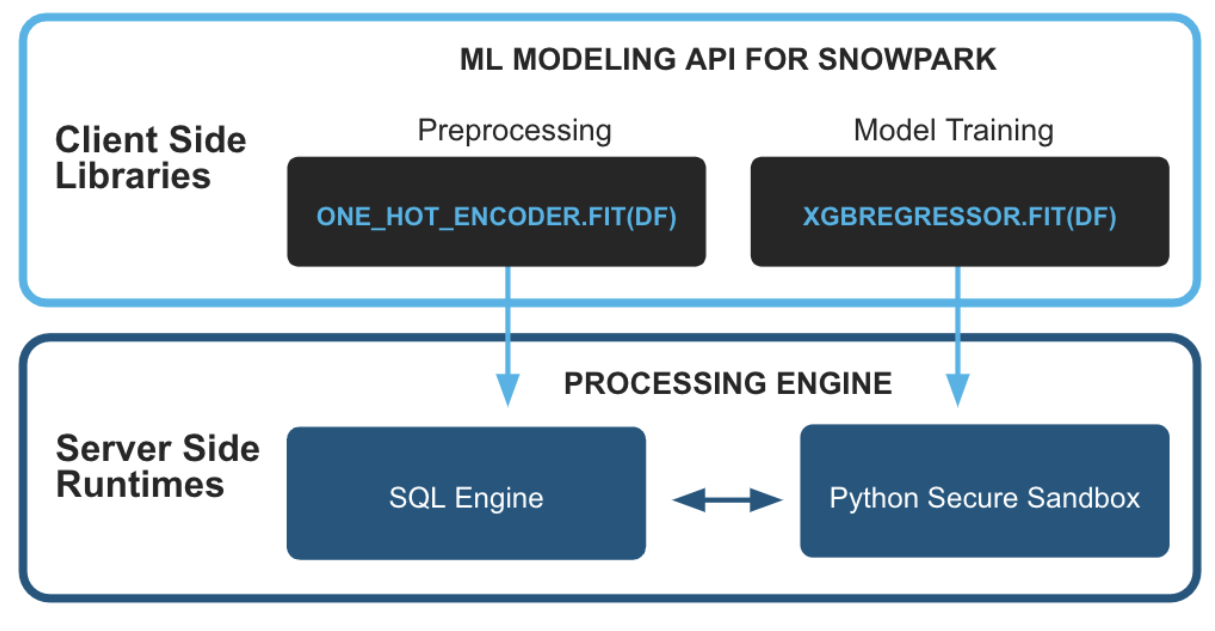
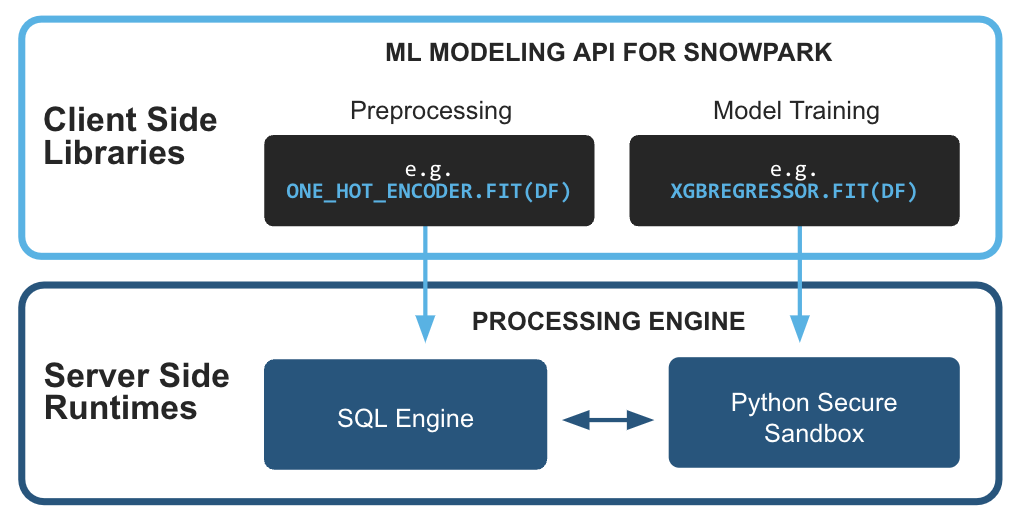
Nit: lower operations, update snowpark img

diff --git a/site/sfguides/src/intro_to_machine_learning_with_snowpark_ml_for_python/intro_to_machine_learning_with_snowpark_ml_in_python.md b/site/sfguides/src/intro_to_machine_learning_with_snowpark_ml_for_python/intro_to_machine_learning_with_snowpark_ml_in_python.md
@@ -27,7 +27,7 @@ Learn more about [Snowpark](http://www.snowflake.com/snowpark).
 
 ### What is Snowpark ML?
 
-Snowpark ML is a new library for faster and more intuitive end-to-end ML development in Snowflake. Snowpark ML has 2 APIs: Snowpark ML Modeling (public preview) for model development and Snowpark ML Operations (private preview) for model deployment. 
+Snowpark ML is a new library for faster and more intuitive end-to-end ML development in Snowflake. Snowpark ML has 2 APIs: Snowpark ML Modeling (public preview) for model development and Snowpark ML operations (private preview) for model deployment. 
 
 This quickstart will focus on the Snowpark ML Modeling API, which scales out feature engineering and simplifies ML training execution. 
 
